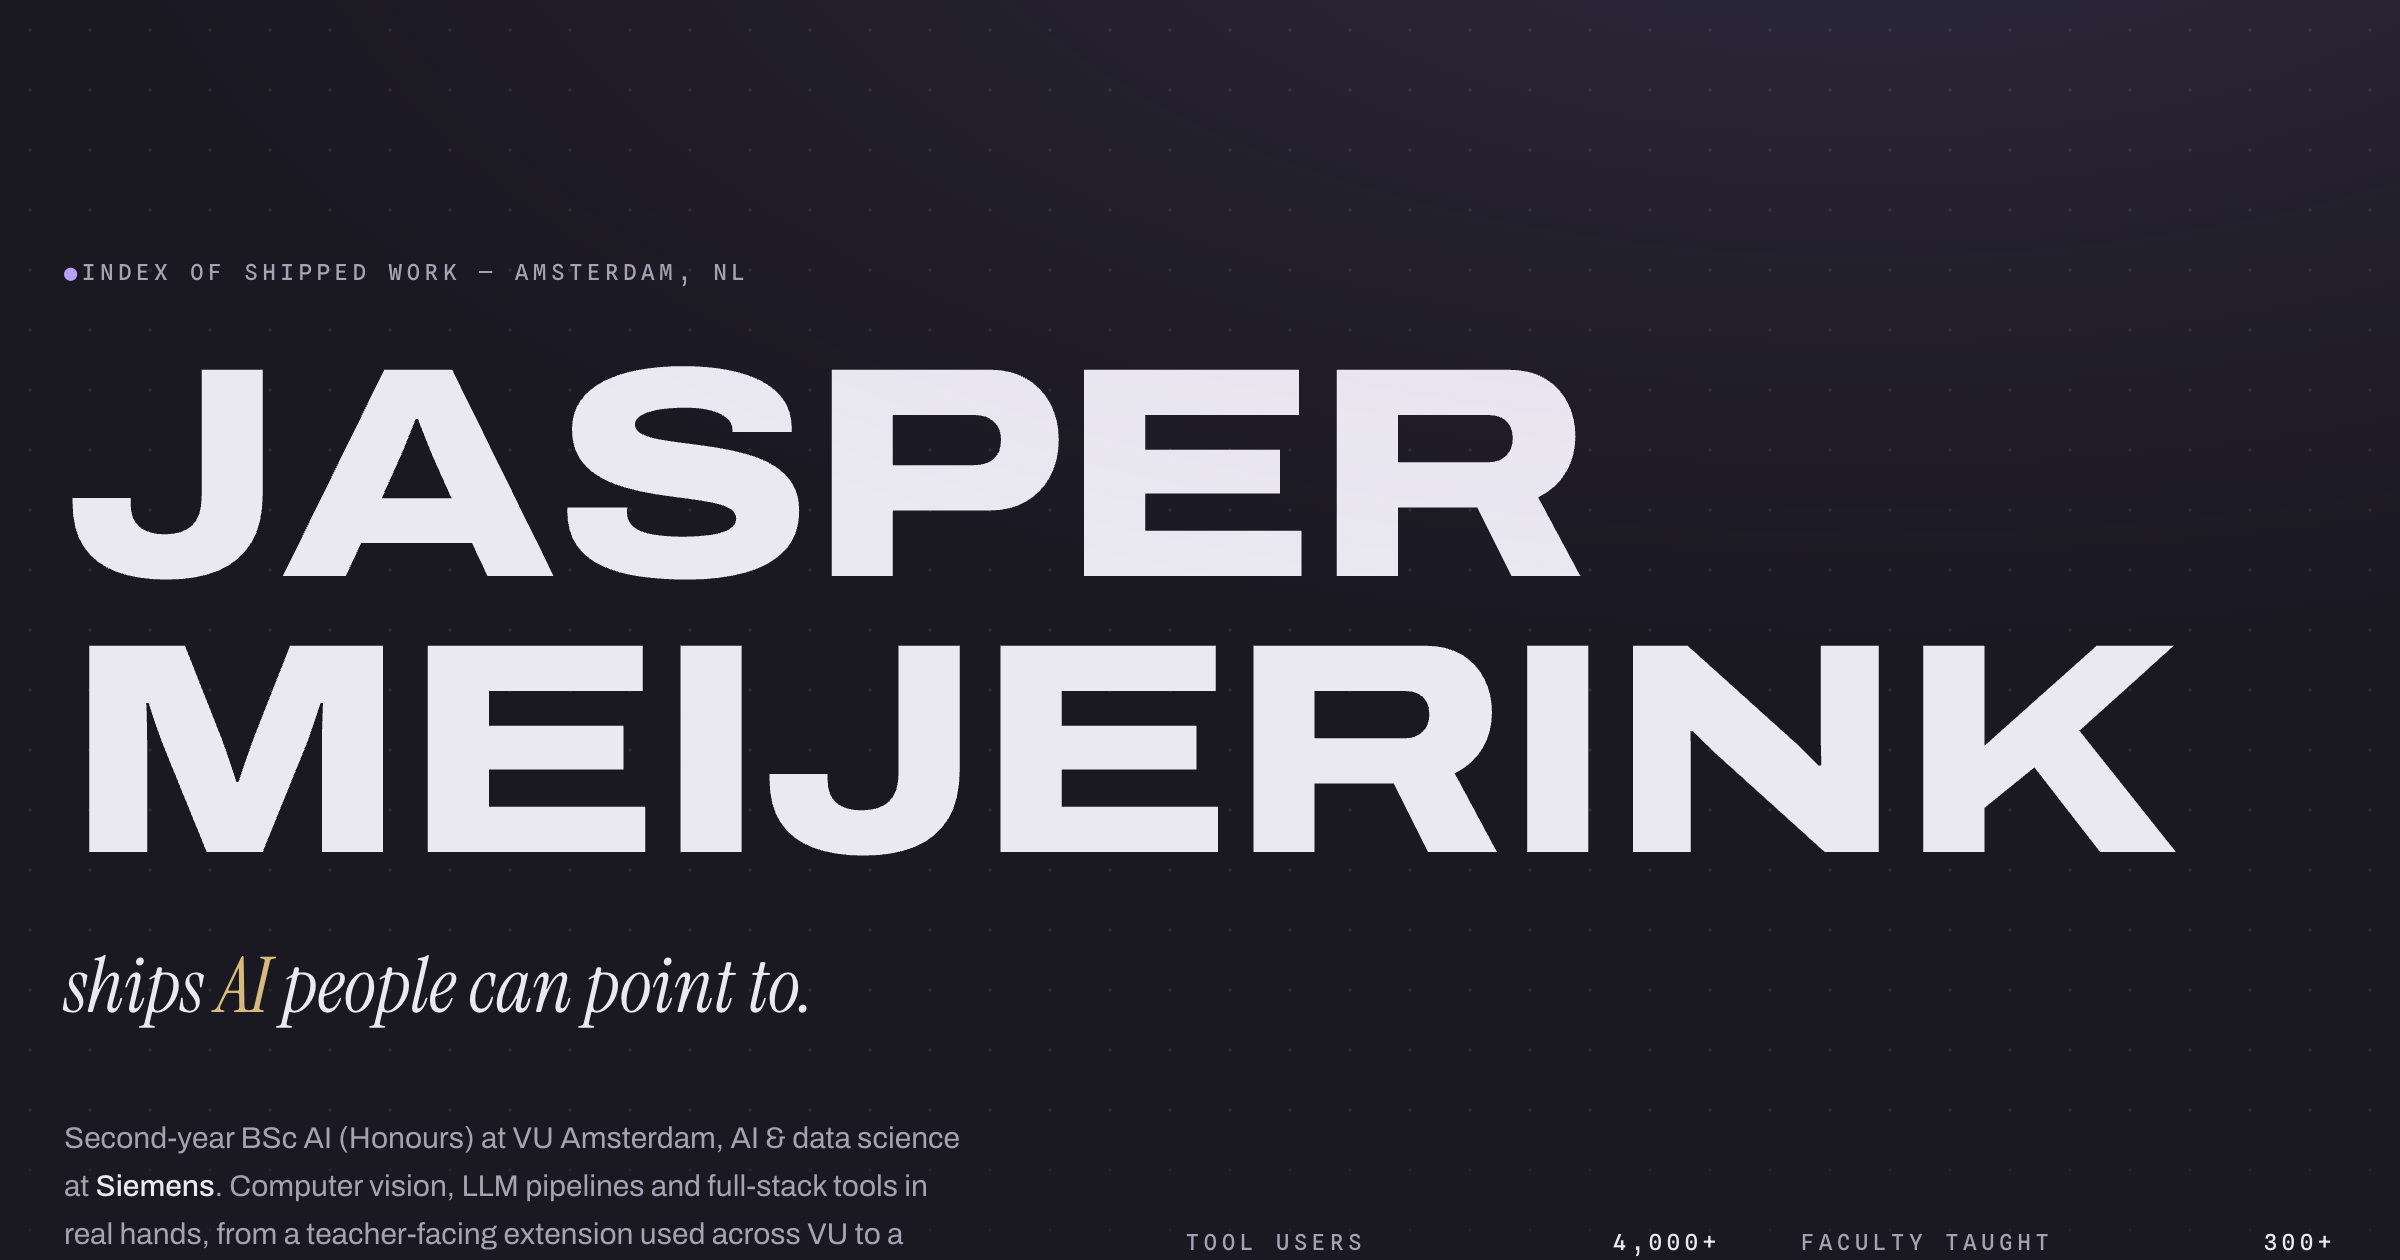
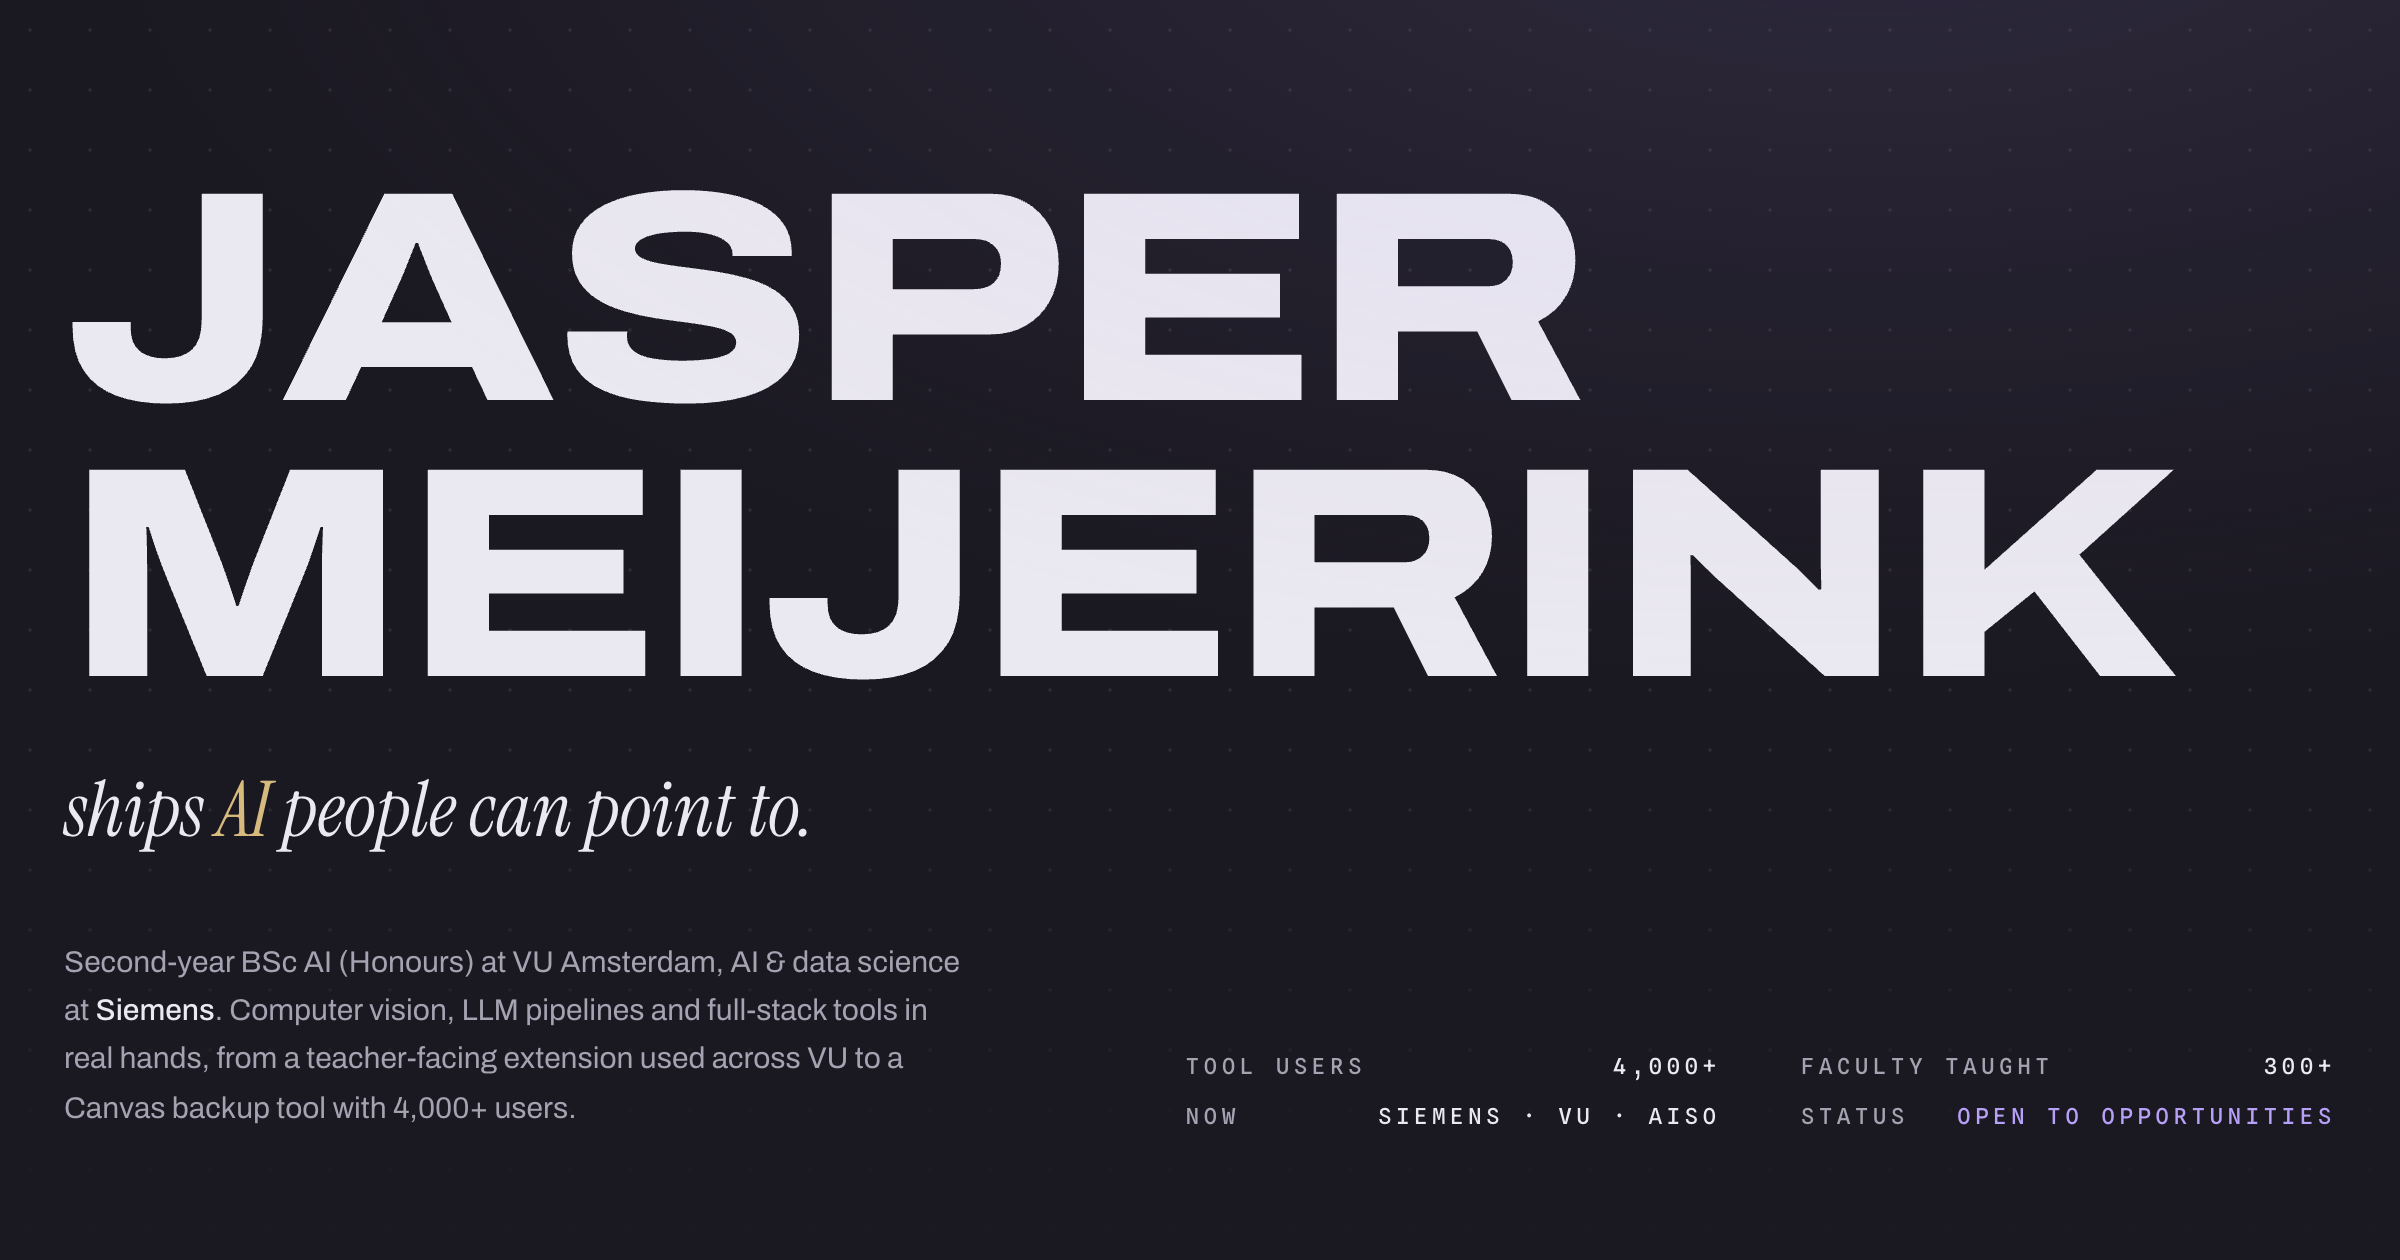
Simplify chrome, fix mobile overflow, tighten rhythm, drop em dashes
From the /improve audit (plans/): remove the header nav, ticker banner,
hero eyebrow and scroll cue; clip horizontal overflow at the root so
phones can't pan sideways; lower the footer display-size floor so
'something' fits an iPhone; standardize section rhythm at py-14/20;
replace all rendered em dashes with '-'. OG image regenerated.

diff --git a/src/lib/site.ts b/src/lib/site.ts
@@ -5,7 +5,7 @@ export const site = {
   location: "Amsterdam, NL",
   domain: "jaspnerd.dev",
   url: "https://jaspnerd.dev",
-  title: "Jasper Meijerink — AI & data science, shipped",
+  title: "Jasper Meijerink - AI & data science, shipped",
   description:
     "Portfolio of Jasper Meijerink: AI & Data Science at Siemens, BSc AI (Honours) at VU Amsterdam. Computer vision, LLM pipelines and full-stack tools in real hands, including a Canvas backup extension with 4,000+ users.",
   email: "jasper.meijerink@outlook.com",
@@ -13,20 +13,3 @@ export const site = {
   linkedin: "https://www.linkedin.com/in/jasper-meij-ai",
   ogImage: "/og.png",
 } as const;
-
-export const nav = [
-  { label: "Work", href: "/#work" },
-  { label: "About", href: "/#about" },
-  { label: "Experience", href: "/#experience" },
-  { label: "Contact", href: "/#contact" },
-] as const;
-
-/** Ticker belt items — role facts, kept honest. */
-export const ticker = [
-  "AI & Data Science @ Siemens",
-  "BSc AI (Honours) @ VU Amsterdam",
-  "Canvas tool: 4,000+ users",
-  "AI workshops for 300+ faculty",
-  "Prosus × AISO hackathon finalist",
-  "Based in Amsterdam",
-] as const;

diff --git a/src/styles/global.css b/src/styles/global.css
@@ -62,6 +62,8 @@ html[data-theme="paper"] {
 
 html {
   scroll-behavior: smooth;
+  /* clip on the root, not just body: iOS pans the root element sideways */
+  overflow-x: clip;
   @media (prefers-reduced-motion: reduce) {
     scroll-behavior: auto;
   }
@@ -157,25 +159,6 @@ html.motion-ok .split-line > .split-inner {
     auto,
     30px 30px;
   mask-image: linear-gradient(to bottom, black 62%, transparent);
-}
-
-/* marquee belt */
-.ticker-track {
-  display: flex;
-  width: max-content;
-  animation: ticker 28s linear infinite;
-}
-
-@keyframes ticker {
-  to {
-    transform: translateX(-50%);
-  }
-}
-
-@media (prefers-reduced-motion: reduce) {
-  .ticker-track {
-    animation: none;
-  }
 }
 
 /* ------------------------------------------------------------------

diff --git a/plans/README.md b/plans/README.md
@@ -1,0 +1,39 @@
+# Improvement plans — audit of 1e3157d
+
+Scope: visual/spacing consistency, mobile robustness, design quality (quick audit,
+owner-requested focus). Correctness/security/deps not audited this run.
+
+## Findings
+
+| #   | Finding                                                                                                                                        | Category | Impact | Effort | Risk | Evidence                                                                                            |
+| --- | ---------------------------------------------------------------------------------------------------------------------------------------------- | -------- | ------ | ------ | ---- | --------------------------------------------------------------------------------------------------- |
+| 1   | Page can scroll horizontally on mobile: `overflow-x: clip` sits on `body` only, and the rotated, 105%-scaled ticker overflows the root element | mobile   | M      | S      | low  | `src/styles/global.css` body rule; `src/components/Ticker.astro` `-rotate-1 scale-x-105`            |
+| 2   | Footer display line "SOMETHING" clips on ≤390px viewports: `clamp(3rem,11vw,10rem)` floor is too wide for Archivo at `wdth 125`                | mobile   | M      | S      | low  | `src/components/Contact.astro` heading                                                              |
+| 3   | Header nav items clip on narrow phones; owner wants the header gone entirely (desktop + mobile)                                                | design   | M      | S      | low  | `src/components/Header.astro`                                                                       |
+| 4   | Hero chrome competes with the name: eyebrow line, scroll cue, and the diagonal ticker banner (owner-directed removal)                          | design   | M      | S      | low  | `src/components/Hero.astro`, `src/components/Ticker.astro`                                          |
+| 5   | Vertical rhythm too airy and doubles up: every section `py-20 sm:py-28` stacks to ~14rem of empty space between content blocks                 | spacing  | M      | S      | low  | `About/Work/Experience/Skills/Contact.astro` section classes                                        |
+| 6   | 15 visible em dashes in UI strings and content data; owner wants `-` (or comma in prose)                                                       | copy     | S      | S      | low  | `experience.json`, `SectionHead.astro`, `[slug].astro`, `404.astro`, `site.ts`, project frontmatter |
+| 7   | After header removal, top paddings sized for a fixed header (`pt-28/32` hero, `pt-32` case pages) become dead space                            | spacing  | S      | S      | low  | `Hero.astro`, `pages/projects/[slug].astro`, `404.astro`                                            |
+| 8   | `public/og.png` shows the pre-change hero; regenerate after visual edits                                                                       | design   | S      | S      | low  | `public/og.png`                                                                                     |
+
+Considered and rejected:
+
+- Replacing section anchors' `scroll-mt-20` after header removal — harmless either way; not worth a plan.
+- Hamburger menu instead of header removal — owner explicitly prefers no header.
+
+## Direction (options, not defects)
+
+- Real product screenshots on case pages: the schematic figures carry the aesthetic, but one annotated screenshot per featured project would substantiate the traction claims. Needs image assets from the owner (M).
+- Per-project OG images: `[slug].astro` reuses the site-wide card; Astro can render per-page OGs at build time for better link previews when sharing individual case files (M).
+
+## Plans
+
+| Plan                                                 | Covers         | Status                                                      |
+| ---------------------------------------------------- | -------------- | ----------------------------------------------------------- |
+| [001-mobile-robustness.md](001-mobile-robustness.md) | #1, #2         | DONE (implemented in-session on owner's direct instruction) |
+| [002-simplify-chrome.md](002-simplify-chrome.md)     | #3, #4, #7, #8 | DONE (implemented in-session on owner's direct instruction) |
+| [003-rhythm-and-copy.md](003-rhythm-and-copy.md)     | #5, #6         | DONE (implemented in-session on owner's direct instruction) |
+
+Execution order: 002 before 003 (rhythm values depend on which chrome remains). 001 independent.
+Verification gates for all plans: `npm run check` (0 errors), `npm run build`, and a
+390px-viewport render with `document.documentElement.scrollWidth <= window.innerWidth`.

diff --git a/plans/001-mobile-robustness.md b/plans/001-mobile-robustness.md
@@ -1,0 +1,48 @@
+# 001 — Mobile robustness: kill horizontal scroll, fix footer clipping
+
+Written against commit `1e3157d`. Status: DONE (implemented in-session).
+
+## Why
+
+On iPhone-width viewports the page pans sideways and the footer's second display
+line ("SOMETHING") clips at the right edge. Horizontal pan on a portfolio reads as
+broken; the clipped heading is the first thing a recruiter sees at the contact step.
+
+## Context the executor needs
+
+- Astro 7 static site, Tailwind CSS v4 (CSS-first config in `src/styles/global.css`,
+  no tailwind.config.js). Verify with `npm run check` and `npm run build`.
+- `overflow-x: clip` currently sits on `body` in `src/styles/global.css`. The html
+  (root) element establishes the horizontal scroll; clipping body alone does not
+  prevent root overflow on iOS Safari.
+- The footer heading in `src/components/Contact.astro` uses
+  `text-[clamp(3rem,11vw,10rem)]` with the `.voice-display` class
+  (`font-variation-settings: "wdth" 125` — extra-wide glyphs). At 390px the 3rem
+  floor makes "SOMETHING" wider than the viewport minus `px-5` padding.
+
+## Steps
+
+1. In `src/styles/global.css`, move/duplicate the clip to the root:
+   `html { overflow-x: clip; }` (keep the body rule). Verify: build, render at
+   390×844, check `document.documentElement.scrollWidth <= 390`.
+2. In `src/components/Contact.astro`, change the heading size floor:
+   `text-[clamp(3rem,11vw,10rem)]` → `text-[clamp(2.3rem,10.5vw,10rem)]`.
+   Verify: 390px render shows all three lines ("Let's build" / "something" /
+   "real.") fully inside the viewport.
+
+## Out of scope
+
+Do not change the split-line reveal markup, `voice-display` letterforms, or any
+desktop sizing above the clamp midpoint.
+
+## Done criteria
+
+- `npm run check` → 0 errors; `npm run build` succeeds.
+- Headless render at 390×844: no element wider than the viewport
+  (`[...document.querySelectorAll('*')].filter(e => e.getBoundingClientRect().right > 390)`
+  returns only intentionally-clipped ancestors, i.e. none after ticker removal).
+
+## Escape hatch
+
+If horizontal overflow persists after step 1, list the offending elements with the
+snippet above and report back instead of adding `overflow: hidden` wrappers.

diff --git a/plans/003-rhythm-and-copy.md b/plans/003-rhythm-and-copy.md
@@ -1,0 +1,36 @@
+# 003 — Vertical rhythm + em dash sweep
+
+Written against commit `1e3157d`. Status: DONE (implemented in-session).
+
+## Why
+
+Adjacent sections each carry `py-20 sm:py-28`, stacking to ~14rem of empty space —
+consistent but visibly hollow between About → Case files → Experience. And the owner
+wants zero em dashes in rendered text: `-` for separators/ranges, comma in prose.
+
+## Steps
+
+1. Standardize the section rhythm: in `About.astro`, `Work.astro`,
+   `Experience.astro`, `Skills.astro` change section classes
+   `py-20 sm:py-28` → `py-14 sm:py-20`; in `Contact.astro` change
+   `pt-20 sm:pt-28` → `pt-14 sm:pt-20`. Keep `SectionHead.astro`'s `mb-12 sm:mb-16`
+   (consistent already).
+2. Em dash sweep, visible strings only (leave code comments alone):
+   - `src/content/experience.json`: all `role` and `period` values (`"Mar 2026 —
+present"` → `"Mar 2026 - present"`, `"Data Science & AI — Working Student"` →
+     `"Data Science & AI - Working Student"`, etc.)
+   - Project frontmatter `period` fields in `src/content/projects/*.md`.
+   - `SectionHead.astro` (`{index} — {label}`), `Experience.astro`
+     (`{data.org} — {data.place}`), `Contact.astro` (`05 — Contact`),
+     `[slug].astro` (title + `Case file NN — status`), `404.astro` (both), and
+     `site.ts` `title`.
+   - Prose bodies in `src/content/projects/*.md`: replace any em dash with a comma
+     (none expected; verify with grep).
+3. Verify: `grep -rn "—" src/ | grep -v "^\s*//" | grep -vE "\*|/\*"` shows only
+   code comments (or nothing).
+
+## Done criteria
+
+- `npm run check` 0 errors, `npm run build` succeeds.
+- Rendered HTML contains no em dash: `curl -s localhost:4322/ | grep -c "—"` → 0
+  (repeat for one case page and /404).

diff --git a/plans/002-simplify-chrome.md b/plans/002-simplify-chrome.md
@@ -1,0 +1,36 @@
+# 002 — Simplify chrome: remove header, ticker, hero eyebrow + scroll cue
+
+Written against commit `1e3157d`. Status: DONE (implemented in-session).
+
+## Why
+
+Owner verdict: the fixed header adds nothing (and its nav clips on phones), and the
+hero stacks four competing elements (eyebrow, name, ticker banner, scroll cue). The
+name should carry the hero alone.
+
+## Steps
+
+1. Delete `src/components/Header.astro` and `src/components/Ticker.astro`.
+2. Remove their imports/usages from `src/pages/index.astro`,
+   `src/pages/projects/[slug].astro`, `src/pages/404.astro`.
+3. Remove the `nav` export from `src/lib/site.ts` and the `ticker` export + the
+   `.ticker-track` / `@keyframes ticker` CSS block in `src/styles/global.css`.
+4. In `src/components/Hero.astro`: delete the eyebrow `<p>` ("Index of shipped
+   work…") and the "Scroll for the index" anchor; reduce top padding now that no
+   fixed header exists (`pt-28 sm:pt-32` → `pt-14 sm:pt-20`).
+5. Case pages and 404 sized their top padding for the header: `pt-32` → `pt-12
+sm:pt-16` in `src/pages/projects/[slug].astro` and adjust `404.astro` similarly.
+6. Regenerate `public/og.png` from the rebuilt hero (1200×630, reduced-motion,
+   deviceScaleFactor 2).
+
+## Out of scope
+
+Keep the skip-link in `src/layouts/Base.astro` (still useful), the footer nav links,
+and the case pages' "Back to the index" breadcrumbs — they are now the only
+navigation; do not remove them.
+
+## Done criteria
+
+- `grep -rn "Header\|Ticker" src/` returns nothing.
+- `npm run check` 0 errors, `npm run build` succeeds, all 7 routes still render.
+- Hero name starts near the top on a 390px viewport with no dead band above.

diff --git a/src/content/projects/vu-ai-student-hub.md b/src/content/projects/vu-ai-student-hub.md
@@ -5,7 +5,7 @@ description: Community study platform covering all 35 courses of the BSc AI at V
 index: 2
 featured: true
 status: Live · community-driven
-period: 2025 — present
+period: 2025 - present
 stack:
   [React 19, Next.js 16, TypeScript, Tailwind CSS 4, OpenRouter, KaTeX, Vercel]
 links:

diff --git a/src/content/projects/vu-education-lab-ai-assistant.md b/src/content/projects/vu-education-lab-ai-assistant.md
@@ -5,7 +5,7 @@ description: Chrome extension that turns webpages and PDFs into summaries, quizz
 index: 1
 featured: true
 status: In production
-period: 2025 — present
+period: 2025 - present
 stack:
   [JavaScript, Chrome Extension, Node.js, Express, Azure, Azure OpenAI, Gemini]
 links:
